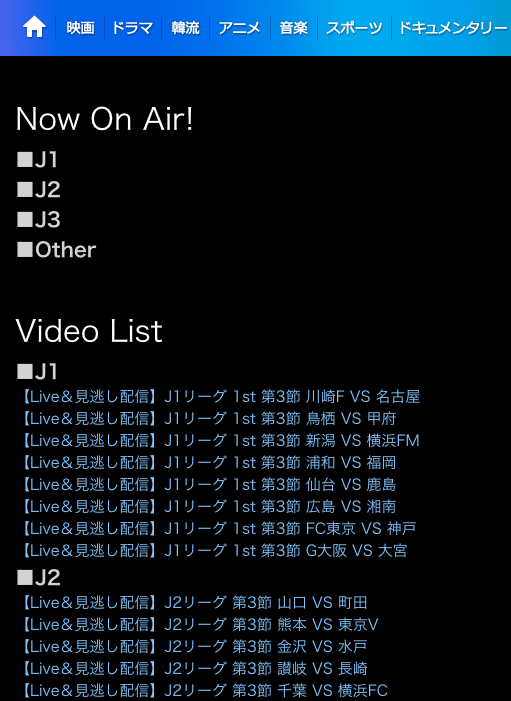
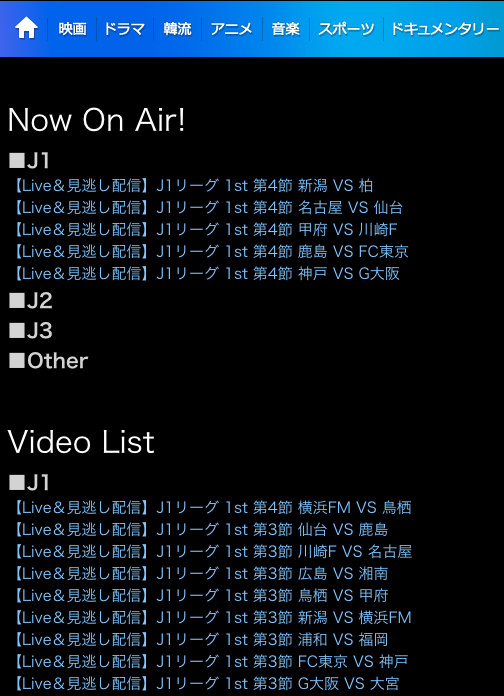
BUG FIX

Changed region(s): [[0.0, 0.1509, 0.8333, 0.9957], [0.3274, 0.2414, 0.8036, 0.4224], [0.0298, 0.0, 1.0, 0.0603]]

diff --git a/j-league-on-demand.user.js b/j-league-on-demand.user.js
@@ -4,7 +4,7 @@
 // @include        https://vod.skyperfectv.co.jp/live_list.php
 // @downloadUrl    https://raw.githubusercontent.com/downloads/aoba/j-league-on-demand/master/j-league-on-demand.user.js
 // @updateUrl      https://raw.githubusercontent.com/downloads/aoba/j-league-on-demand/master/j-league-on-demand.user.js
-// @version        0.2
+// @version        0.3
 // @description    Show J-League On Demand Streaming Video List
 // ==/UserScript==
 (function(){
@@ -117,13 +117,11 @@
 					var json = JSON.parse(response.responseText);
 					var episodes = json[1].episode;
 					var regexp = /第([0-9]+)節/; // 第3節 川崎F VS 名古屋
-					var lastSectionRegexp = /./;
 					var highlightRegexp = /ハイライト/;
 					var j1 = [];
 					var j2 = [];
 					var j3 = [];
 					var other = [];
-					var section = ''; // 節番号
 					
 					for(var i in episodes){
 						var epi = episodes[i];
@@ -131,14 +129,6 @@
 							continue;
 						}
 						var name = epi.episode_name;
-						// 最新の節番号の取得
-						if (!section){
-							res = regexp.exec(name);
-							if (res){
-								section = res[1];
-								lastSectionRegexp = new RegExp('第' + section + '節');
-							}
-						}
 						// ハイライトはotherへ追加
 						if (name.match(highlightRegexp)){
 							other.push(epi);
@@ -146,15 +136,12 @@
 						}
 						// 「第n節」が含まれる場合は試合とみなす
 						if (name.match(regexp)){
-							// 最新の節のみ、各リーグごとに追加する
-							if (name.match(lastSectionRegexp)){
-								if (0 < name.indexOf('J1')){
-									j1.push(epi);
-								} else if (0 < name.indexOf('J2')){
-									j2.push(epi);
-								} else if (0 < name.indexOf('J3')){
-									j3.push(epi);
-								}
+							if (0 < name.indexOf('J1')){
+								j1.push(epi);
+							} else if (0 < name.indexOf('J2')){
+								j2.push(epi);
+							} else if (0 < name.indexOf('J3')){
+								j3.push(epi);
 							}
 						} else {
 							other.push(epi);
